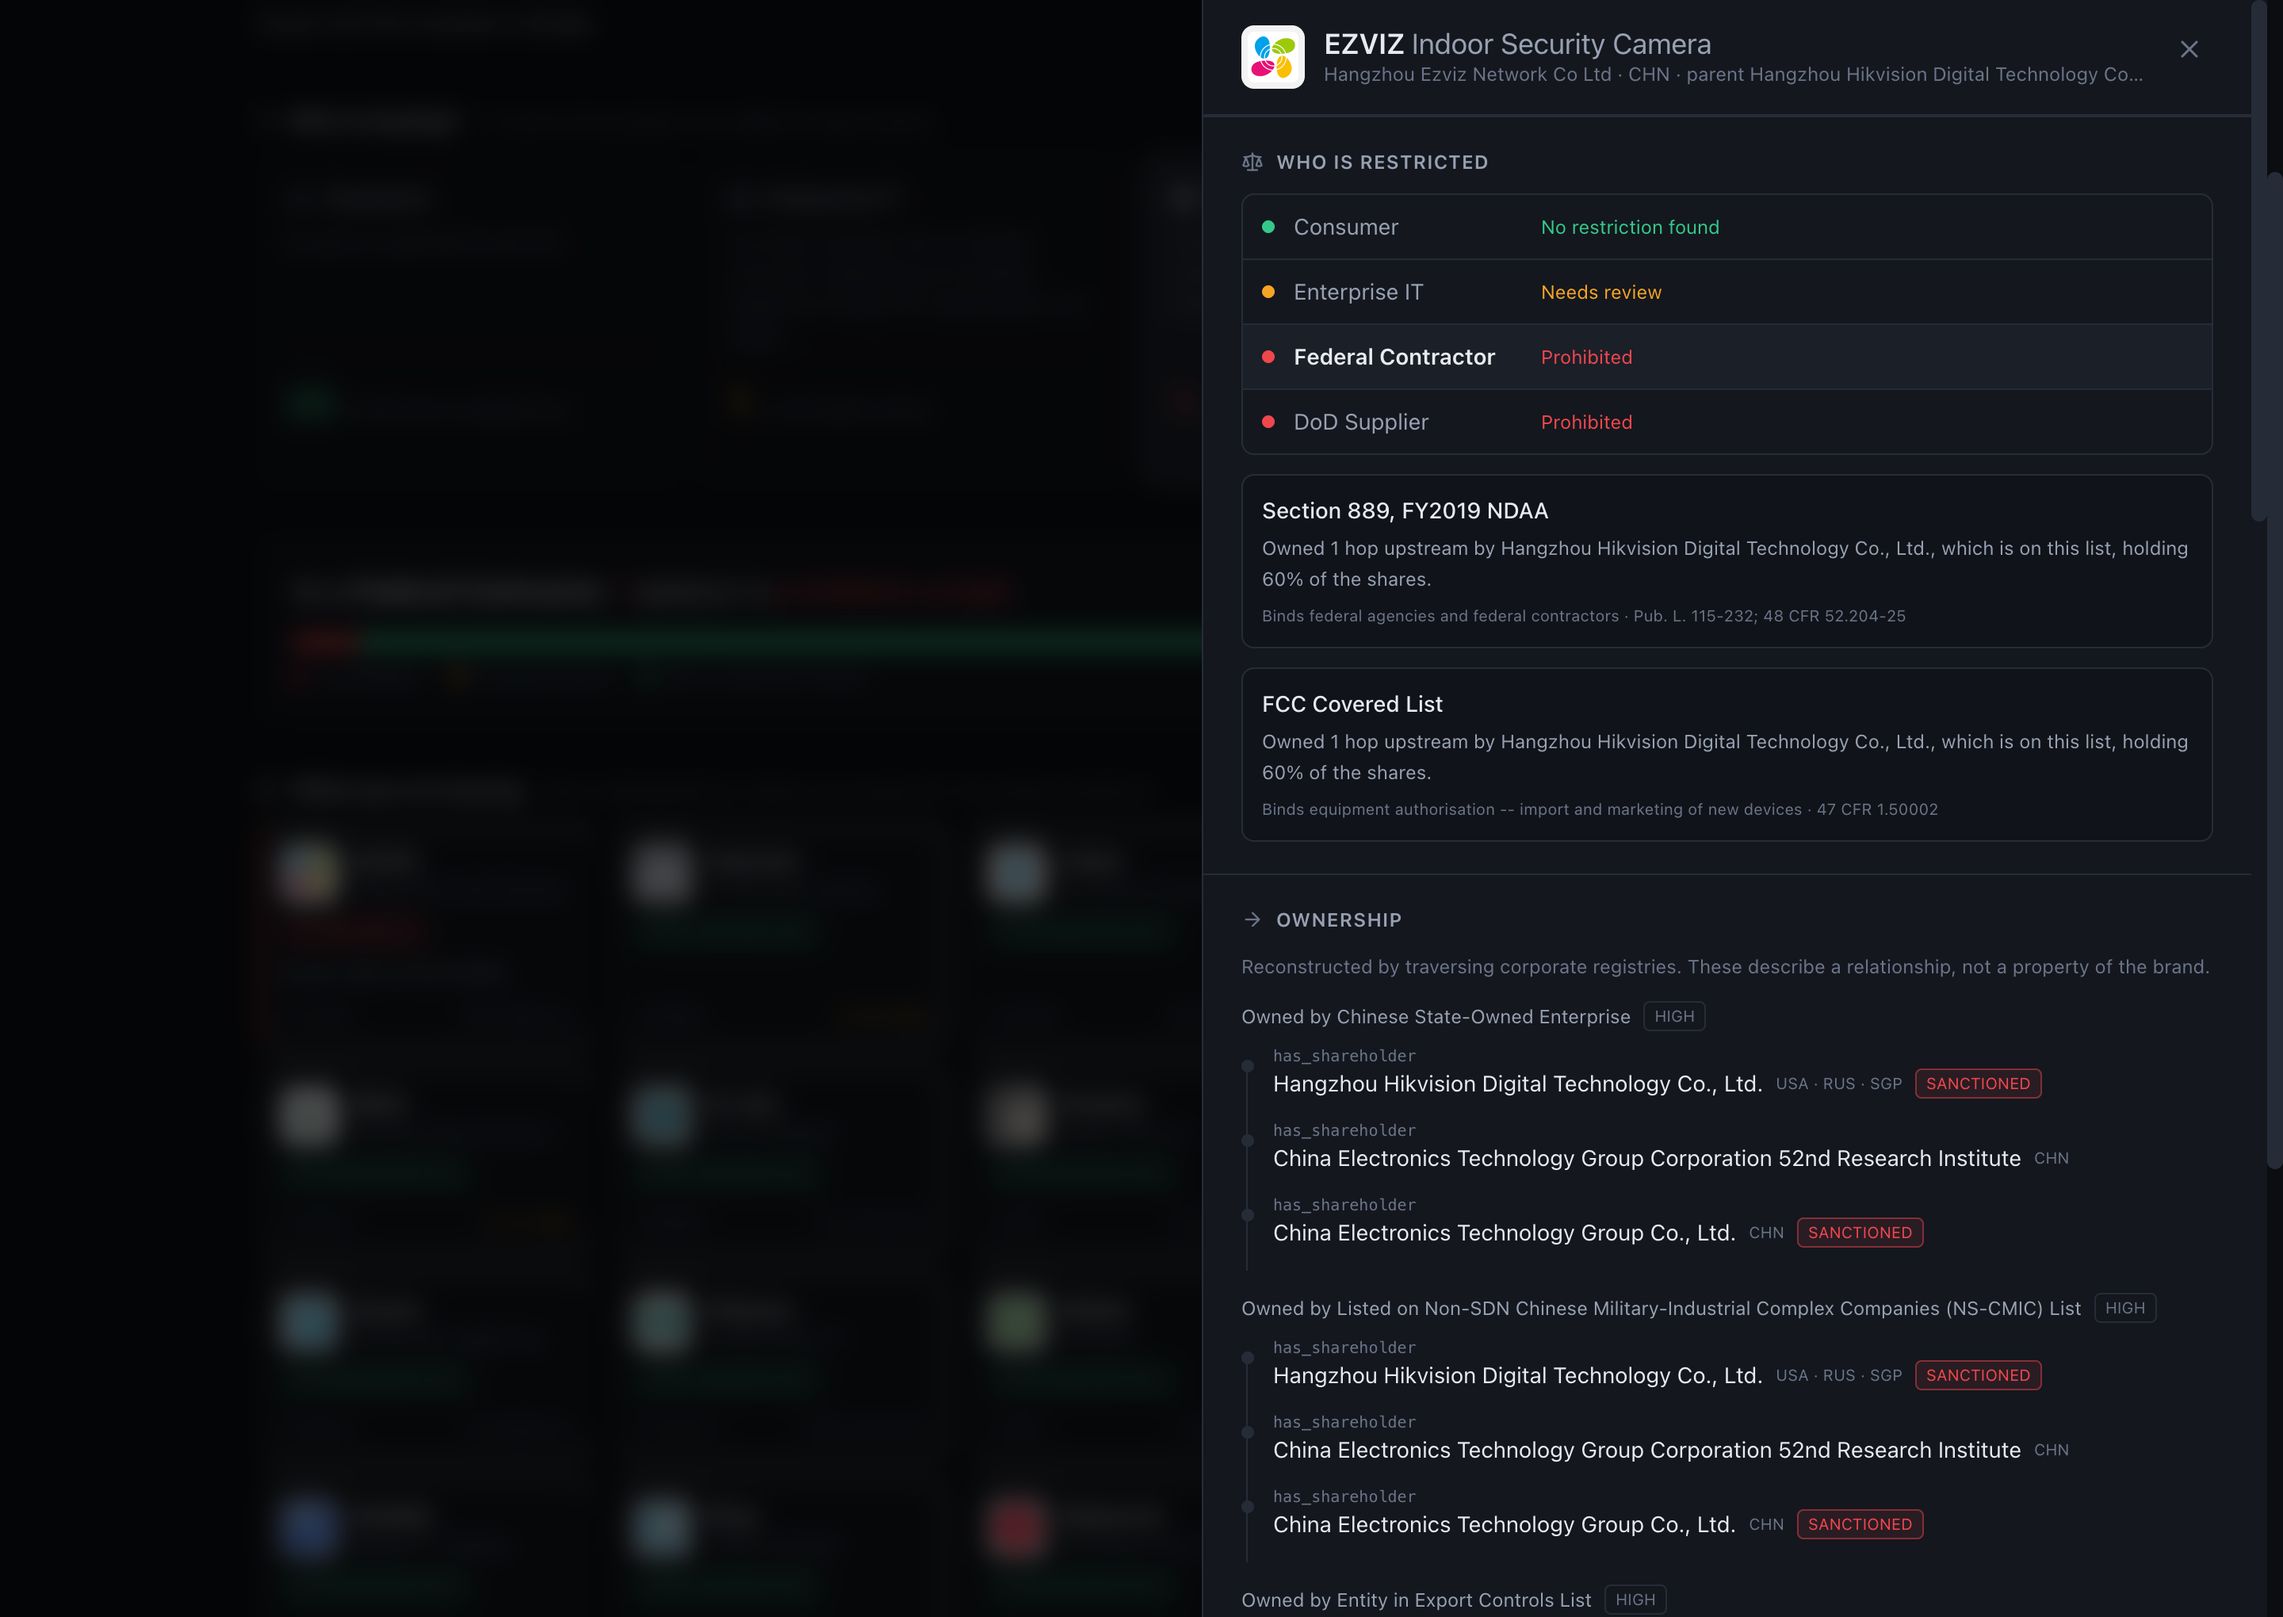
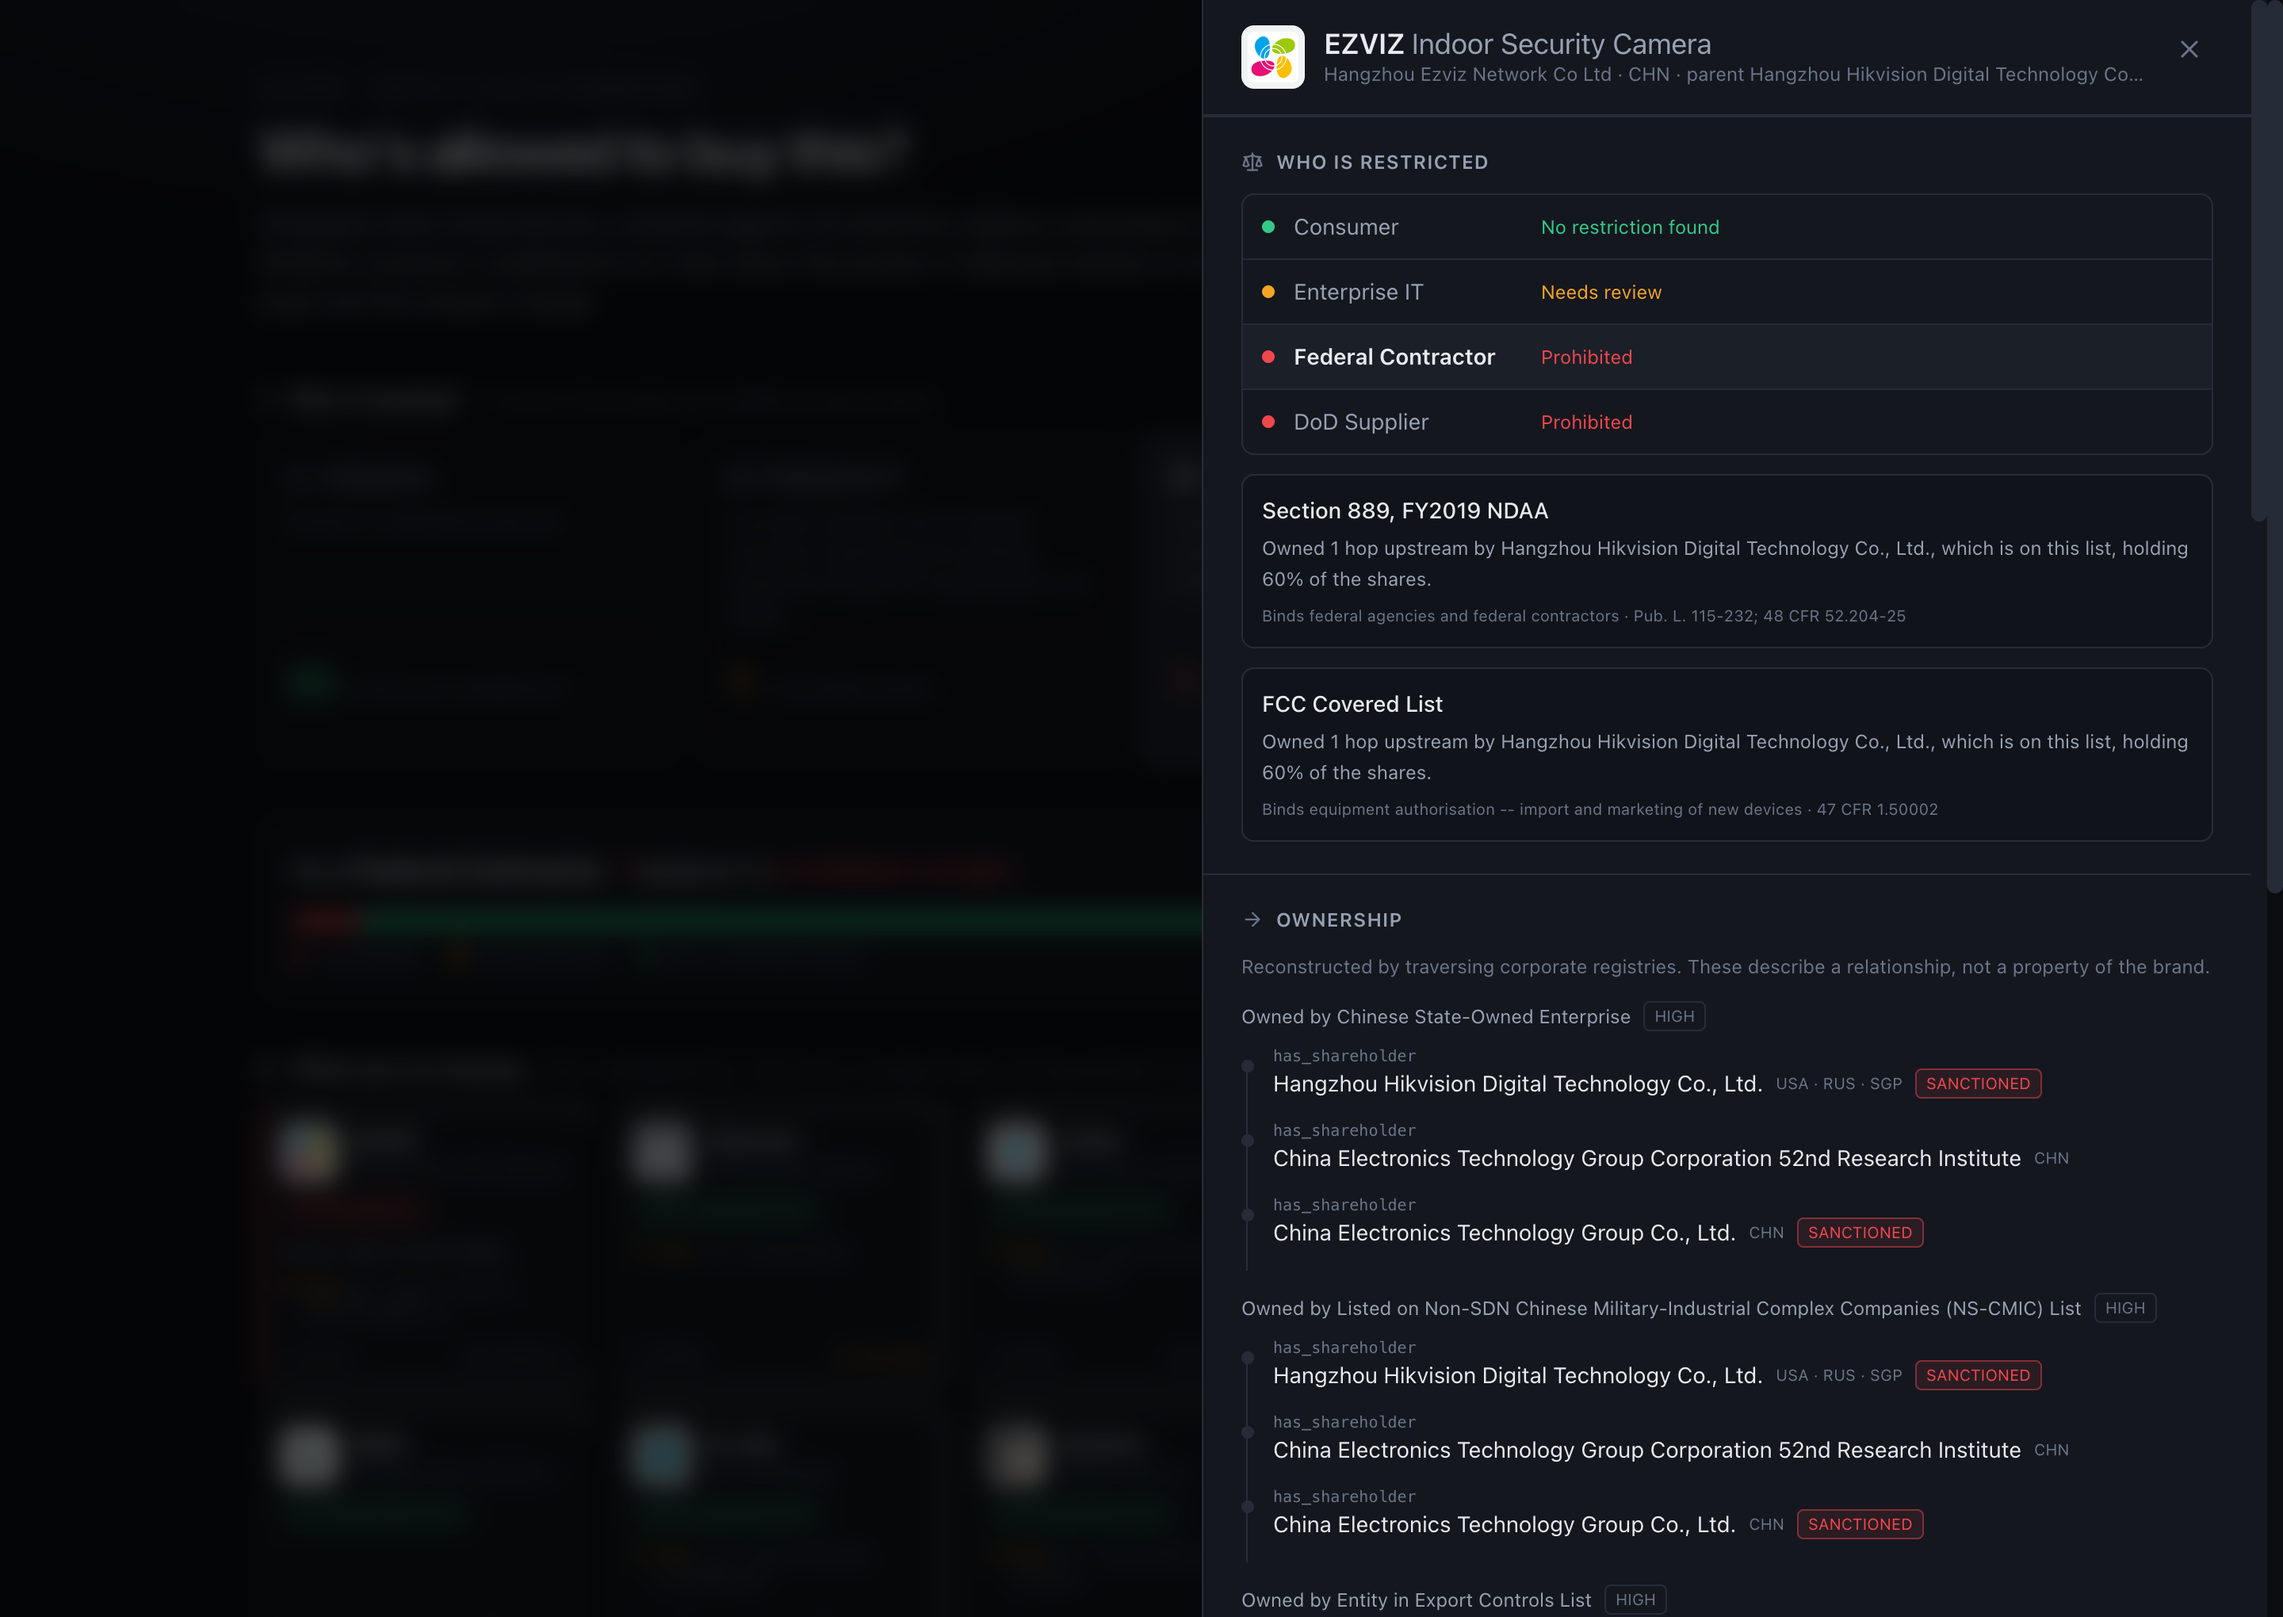
ui: show Sayari risk alongside the legal verdict
Every product marked "no restriction" still carries Sayari risk flags, and
several carry a lot of them: TCL has 23 at high severity across forced labour
and export controls. Showing only the verdict implied a clean bill of health the
data does not support.

Cards now carry both axes, kept visibly distinct:

  NO RESTRICTION              the legal verdict, per buyer profile
  high risk · forced labour   Sayari's assessment, independent of any regime

They are different questions. "No restriction" is a statement about law; a risk
flag is not, and conflating the two is the overstatement this project exists to
avoid. The grid header says so explicitly.

Only Ring, Blink and Govee have no flags at all -- and the first two of those
are the coverage-gap cases, where absence of data is not absence of risk.

diff --git a/frontend/src/components/ProductGrid.tsx b/frontend/src/components/ProductGrid.tsx
@@ -1,9 +1,10 @@
 import { AnimatePresence, motion } from "framer-motion";
-import { AlertTriangle } from "lucide-react";
+import { AlertTriangle, Flag } from "lucide-react";
 import { useEffect, useRef, useState } from "react";
 import type { ProductCard } from "../types";
 import { ORDER, STATUS } from "../status";
 import { logoFor } from "../brands";
+import { LEVEL_TONE, categoryLabel } from "../risk";
 
 function Logo({ id, brand }: { id: string; brand: string }) {
   const [failed, setFailed] = useState(false);
@@ -72,7 +73,8 @@ export function ProductGrid({
           2 · What you are buying
         </h2>
         <span className="text-xs text-faint">
-          Most constrained first. Select any product for the evidence behind it.
+          Most constrained first. The chip is the legal verdict; the flag beneath
+          it is Sayari&rsquo;s risk assessment, which is a separate question.
         </span>
       </div>
 
@@ -121,7 +123,29 @@ export function ProductGrid({
 
                   {verdict.status !== "no_restriction" && (
                     <p className="line-clamp-2 text-[11px] leading-snug text-muted">
-                      {verdict.headline.replace(/^(Prohibited|Diligence required): /, "")}
+                      {verdict.headline.replace(/^(Prohibited|Needs review): /, "")}
+                    </p>
+                  )}
+
+                  {/* Sayari's risk assessment, shown even when nothing is
+                      restricted. "No restriction" is a statement about law; these
+                      flags are a different axis, and hiding them would imply a
+                      clean bill of health the data does not support. */}
+                  {card.flag_count > 0 && (
+                    <p className="flex items-start gap-1 text-[11px] leading-snug text-faint">
+                      <Flag
+                        size={10}
+                        className={`mt-0.5 shrink-0 ${
+                          LEVEL_TONE[card.risk_level ?? ""] ?? "text-faint"
+                        }`}
+                      />
+                      <span>
+                        <span className={LEVEL_TONE[card.risk_level ?? ""]}>
+                          {card.risk_level}
+                        </span>{" "}
+                        risk ·{" "}
+                        {card.risk_categories.slice(0, 2).map(categoryLabel).join(", ")}
+                      </span>
                     </p>
                   )}
 

diff --git a/frontend/src/risk.ts b/frontend/src/risk.ts
@@ -1,0 +1,30 @@
+/** Sayari risk categories, rendered readably.
+ *
+ *  These are Sayari's own risk assessment and are deliberately NOT verdicts. A
+ *  product can carry high-severity flags and still restrict nobody: "no
+ *  restriction" is a statement about law, risk is a separate axis, and the UI
+ *  must never let one read as the other.
+ */
+export const CATEGORY_LABELS: Record<string, string> = {
+  forced_labor: "forced labour",
+  export_controls: "export controls",
+  regulatory_action: "regulatory action",
+  political_exposure: "political exposure",
+  adverse_media: "adverse media",
+  sanctions: "sanctions",
+  sanctions_and_export_control_lists: "sanctions lists",
+  shell_company_risk: "shell company",
+  environmental_risk: "environmental",
+  relevant: "country context",
+};
+
+export const LEVEL_TONE: Record<string, string> = {
+  critical: "text-stop",
+  high: "text-check",
+  elevated: "text-muted",
+  relevant: "text-faint",
+};
+
+export function categoryLabel(slug: string): string {
+  return CATEGORY_LABELS[slug] ?? slug.replace(/_/g, " ");
+}

diff --git a/frontend/src/types.ts b/frontend/src/types.ts
@@ -34,6 +34,8 @@ export interface ProductCard {
   family_flow: number;
   flag_count: number;
   seed_flag_count: number;
+  risk_level: string | null;
+  risk_categories: string[];
   worst_status: Status;
   verdicts: Record<string, Verdict>;
 }

diff --git a/backend/app/main.py b/backend/app/main.py
@@ -10,6 +10,7 @@ from __future__ import annotations
 
 import json
 import threading
+from collections import Counter
 from typing import Any
 
 from fastapi import FastAPI, HTTPException
@@ -51,6 +52,20 @@ def load_snapshot() -> dict[str, Any]:
     )
 
 
+# Sayari's published severities, worst first.
+_LEVEL_ORDER = ["critical", "high", "elevated", "relevant"]
+
+
+def _highest_level(flags: list[dict[str, Any]]) -> str | None:
+    present = {f.get("level") for f in flags}
+    return next((lvl for lvl in _LEVEL_ORDER if lvl in present), None)
+
+
+def _top_categories(flags: list[dict[str, Any]], limit: int = 3) -> list[str]:
+    counts: Counter[str] = Counter(c for f in flags for c in f.get("categories") or [])
+    return [c for c, _ in counts.most_common(limit)]
+
+
 @app.get("/api/products")
 def list_products() -> dict[str, Any]:
     """Card data for the grid. Deliberately excludes chains and rejected candidates,
@@ -68,6 +83,12 @@ def list_products() -> dict[str, Any]:
         "family_flow": product["family_flow"],
         "flag_count": len(product["flags"]),
         "seed_flag_count": sum(1 for f in product["flags"] if f["risk_type"] == "seed"),
+        # Sayari's own risk assessment, kept separate from the verdict. A product
+        # can carry high-severity flags and still restrict nobody: "no restriction"
+        # is a statement about law, not about risk, and conflating them would be
+        # the same overstatement this project exists to avoid.
+        "risk_level": _highest_level(product["flags"]),
+        "risk_categories": _top_categories(product["flags"]),
         "worst_status": product["worst_status"],
         "verdicts": product["verdicts"],
     } for product in snapshot["products"]]
